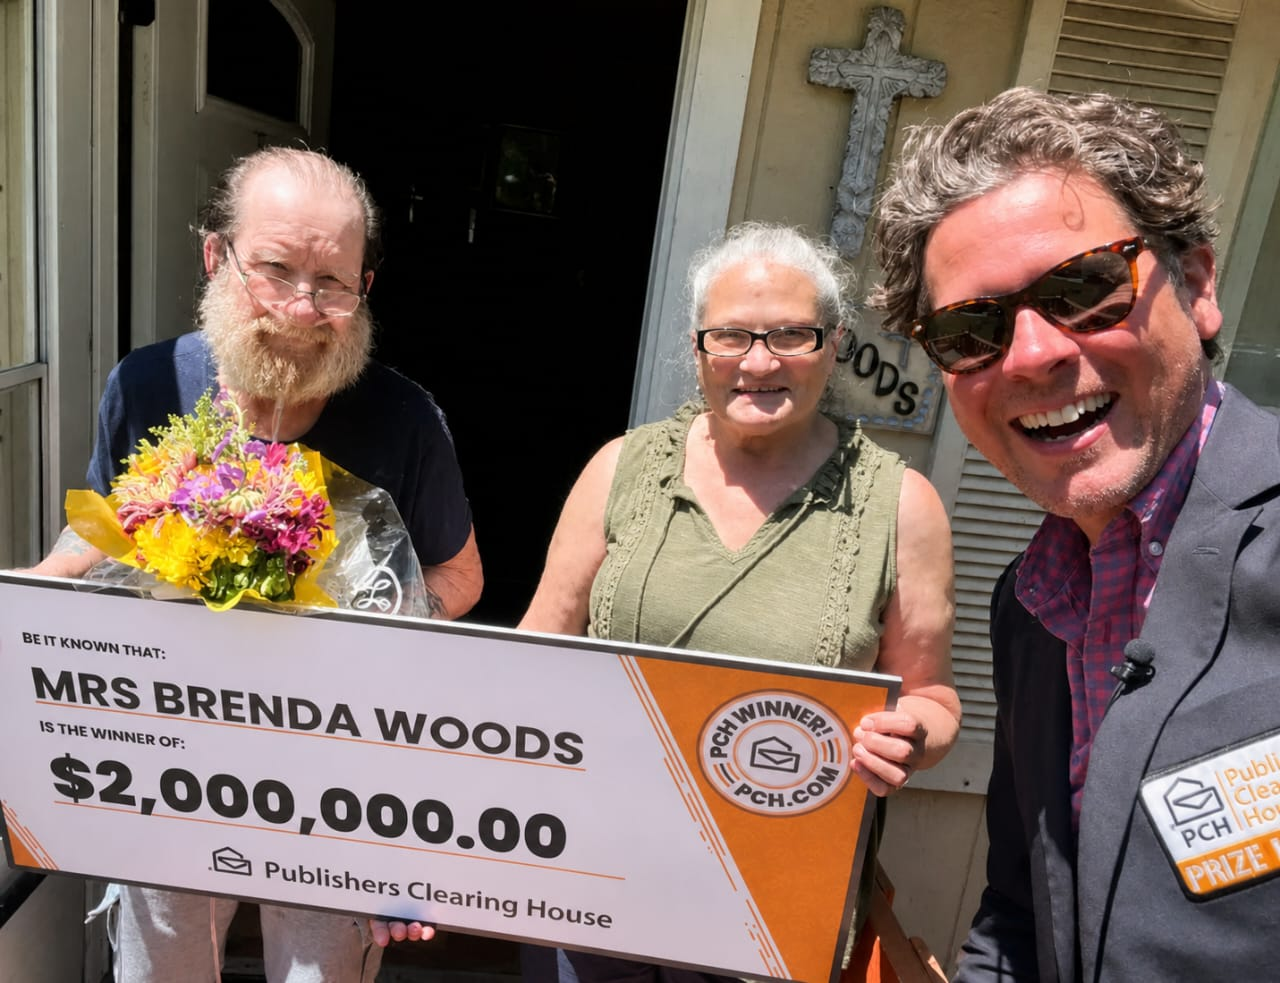
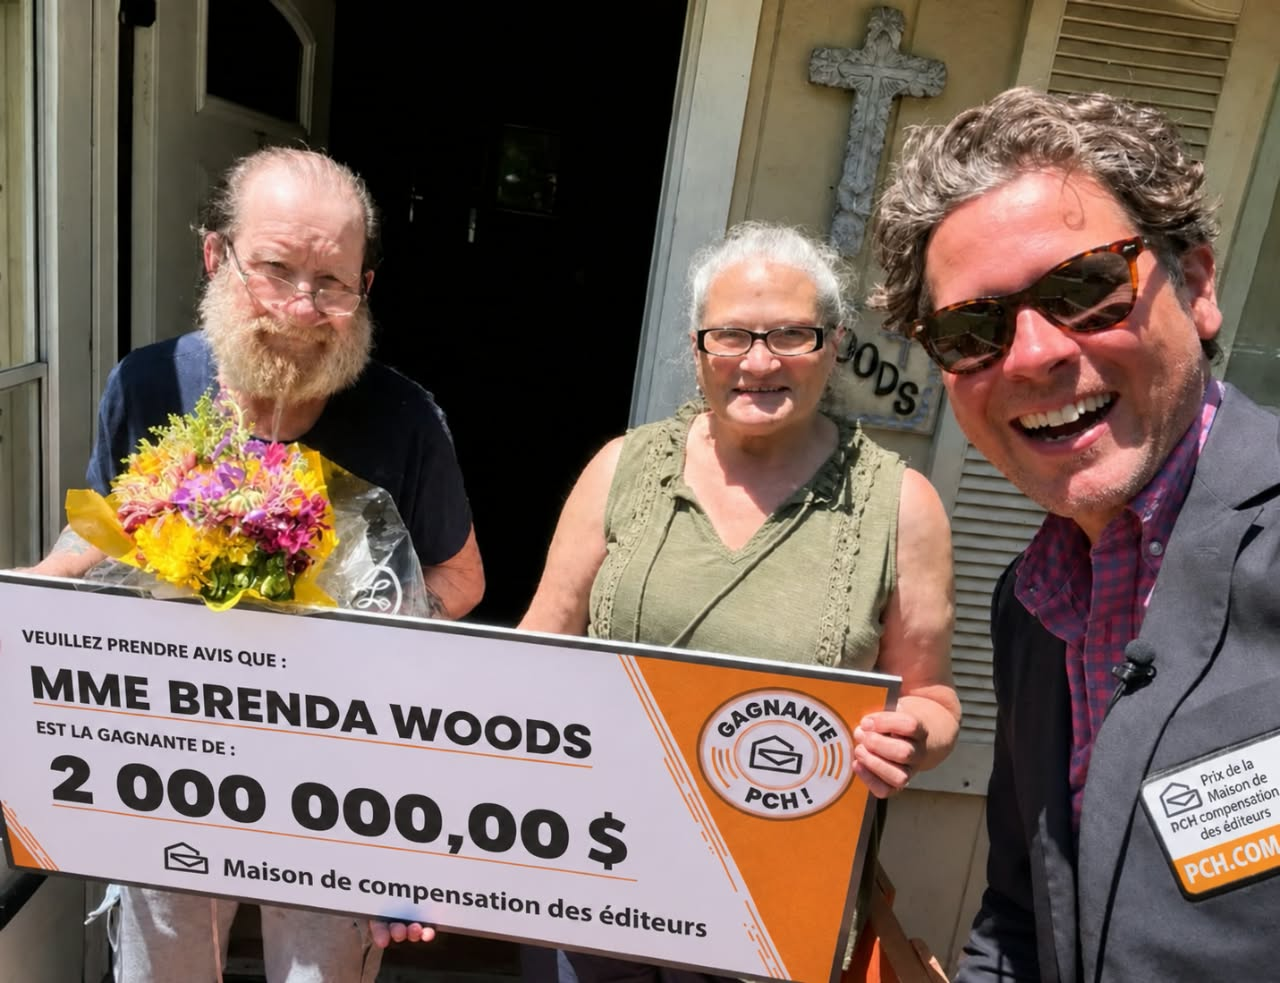
Push change

diff --git a/winners.html b/winners.html
@@ -101,15 +101,14 @@
 
      <!-- Winner Photos with Individual Comment Sections -->
     <div class="image-container">
-      <h3 data-translate="Winners-title">Nos derniers gagnants - septembre 2026</h3>
+      <h3 data-translate="Winners-title">Nos derniers gagnants - octobre 2026</h3>
       <div class="image-slider" id="slider-akeya">
         <button class="slider-btn prev-btn" onclick="changeSlide(-1, 'slider-akeya')">&#10094;</button>
-        <img src="eulalia.jpg" alt="Eulalia Williams portrait" class="slide active" loading="lazy">
-        <img src="eulalia1.jpg" alt="Eulalia Williams portrait" class="slide" loading="lazy">
-        <img src="eulalia2.jpg" alt="Eulalia Williams portrait" class="slide" loading="lazy">
+        <img src="brenda.jpg" alt="Brenda Woods portrait" class="slide active" loading="lazy">
+        <img src="brenda1.jpg" alt="Brenda Woods portrait" class="slide" loading="lazy">
         <button class="slider-btn next-btn" onclick="changeSlide(1, 'slider-akeya')">&#10095;</button>
       </div>
-      <figcaption style="text-align:center; font-size:0.9rem; color:#666; margin-top:6px;">Mme Eulalia Williams</figcaption>
+      <figcaption style="text-align:center; font-size:0.9rem; color:#666; margin-top:6px;">Mme Brenda Woods</figcaption>
       
       <!-- Testimonial Section -->
       <div style="background: #f8f9fa; border-left: 4px solid #28a745; padding: 15px; margin: 15px 0; border-radius: 8px; font-style: italic;">
@@ -123,16 +122,16 @@
       
       <div class="comment-section">
         <div class="comments-header">
-          💬 Commentaires <span class="comment-count" id="count-eulalia" data-count="3454">3 454</span>
+          💬 Commentaires <span class="comment-count" id="count-brenda" data-count="13454">13,454</span>
         </div>
         
         <div class="comment-form">
-          <input type="text" id="name-eulalia" placeholder="Votre nom" required>
-          <textarea id="comment-eulalia" placeholder="Partagez vos impressions sur Mme Eulalia Williams..." required></textarea>
-          <button class="comment-btn" onclick="addComment('eulalia')">Ajouter un commentaire</button>
+          <input type="text" id="name-brenda" placeholder="Votre nom" required>
+          <textarea id="comment-brenda" placeholder="Partagez vos impressions sur Mme Brenda Woods..." required></textarea>
+          <button class="comment-btn" onclick="addComment('brenda')">Ajouter un commentaire</button>
         </div>
         
-        <div class="comments-list" id="comments-eulalia"></div>
+        <div class="comments-list" id="comments-brenda"></div>
       </div>
     </div>
 
@@ -140,16 +139,16 @@
     <div class="image-container">
       <div class="image-slider" id="slider-kelly">
         <button class="slider-btn prev-btn" onclick="changeSlide(-1, 'slider-kelly')">&#10094;</button>
-        <img src="1Mprize.jpg" alt="Susan Headley portrait" class="slide active" loading="lazy">
-        <img src="1Mprize.jpg" alt="Susan Headley portrait" class="slide" loading="lazy">
+        <img src="looms.jpg" alt="Matthew Loomis portrait" class="slide active" loading="lazy">
+        <img src="looms1.jpg" alt="Matthew Loomis portrait" class="slide" loading="lazy">
         <button class="slider-btn next-btn" onclick="changeSlide(1, 'slider-kelly')">&#10095;</button>
       </div>
-      <figcaption style="text-align:center; font-size:0.9rem; color:#666; margin-top:6px;"> </figcaption>
+      <figcaption style="text-align:center; font-size:0.9rem; color:#666; margin-top:6px;">Mr Matthew Loomis</figcaption>
 
       <!-- Testimonial Section -->
       <div style="background: #f8f9fa; border-left: 4px solid #28a745; padding: 15px; margin: 15px 0; border-radius: 8px; font-style: italic;">
         <div style="color: #155724; font-size: 0.95em; line-height: 1.5;">
-          
+          Au début, je n’y croyais pas vraiment, mais après avoir envoyé ma demande, j’ai reçu un courriel de confirmation dès le lendemain! J’ai reçu mon paiement exactement comme promis. Merci beaucoup, ça a vraiment fait ma semaine! 
         </div>
         <div style="text-align: right; margin-top: 8px; font-size: 0.85em; color: #6c757d; font-weight: 600;">
           - Témoignage d'un gagnant vérifié
@@ -158,12 +157,47 @@
       
       <div class="comment-section">
         <div class="comments-header">
-          💬 Commentaires <span class="comment-count" id="count-susan" data-count="0">0</span>
+          💬 Commentaires <span class="comment-count" id="count-matthew" data-count="13327">13,327</span>
+        </div>
+        
+        <div class="comment-form">
+          <input type="text" id="name-matthew" placeholder="Votre nom" required>
+          <textarea id="comment-matthew" placeholder="Partagez vos impressions sur Mr Matthew Loomis..." required></textarea>
+          <button class="comment-btn" onclick="addComment('matthew')">Ajouter un commentaire</button>
+        </div>
+        
+        <div class="comments-list" id="comments-matthew"></div>
+      </div>
+    </div>
+
+     <!-- Winner Photos with Individual Comment Sections -->
+    <div class="image-container">
+      <div class="image-slider" id="slider-roy">
+        <button class="slider-btn prev-btn" onclick="changeSlide(-1, 'slider-roy')">&#10094;</button>
+        <img src="susan.jpg" alt="Susan Headley portrait" class="slide active" loading="lazy">
+        <img src="susan1.jpg" alt="Susan Headley portrait" class="slide" loading="lazy">
+        <button class="slider-btn next-btn" onclick="changeSlide(1, 'slider-roy')">&#10095;</button>
+      </div>
+      <figcaption style="text-align:center; font-size:0.9rem; color:#666; margin-top:6px;">Mme Susan Headley</figcaption>
+      
+      <!-- Testimonial Section -->
+      <div style="background: #f8f9fa; border-left: 4px solid #28a745; padding: 15px; margin: 15px 0; border-radius: 8px; font-style: italic;">
+        <div style="color: #155724; font-size: 0.95em; line-height: 1.5;">
+          J’ai vu mon nom sur la liste des gagnants et je pensais que c’était une blague jusqu’à ce que mon code de demande soit vérifié. Tout s’est déroulé parfaitement. Vous êtes vraiment fiables! Merci beaucoup, PCH!
+        </div>
+        <div style="text-align: right; margin-top: 8px; font-size: 0.85em; color: #6c757d; font-weight: 600;">
+          - Verified Winner Testimonial
+        </div>
+      </div>
+      
+      <div class="comment-section">
+        <div class="comments-header">
+          💬 Commentaires <span class="comment-count" id="count-susan" data-count="12368">12,368</span>
         </div>
         
         <div class="comment-form">
           <input type="text" id="name-susan" placeholder="Votre nom" required>
-          <textarea id="comment-susan" placeholder="Partagez vos impressions..." required></textarea>
+          <textarea id="comment-susan" placeholder="Partagez vos impressions sur Mme Susan Headley..." required></textarea>
           <button class="comment-btn" onclick="addComment('susan')">Ajouter un commentaire</button>
         </div>
         
@@ -173,55 +207,18 @@
 
      <!-- Winner Photos with Individual Comment Sections -->
     <div class="image-container">
-      <div class="image-slider" id="slider-roy">
-        <button class="slider-btn prev-btn" onclick="changeSlide(-1, 'slider-roy')">&#10094;</button>
-        <img src="1Mprize.jpg" alt="Ingrid Ucles portrait" class="slide active" loading="lazy">
-        <img src="1Mprize.jpg" alt="Ingrid Ucles portrait" class="slide" loading="lazy">
-        <img src="1Mprize.jpg" alt="Ingrid Ucles portrait" class="slide" loading="lazy">
-        <button class="slider-btn next-btn" onclick="changeSlide(1, 'slider-roy')">&#10095;</button>
-      </div>
-      <figcaption style="text-align:center; font-size:0.9rem; color:#666; margin-top:6px;"> </figcaption>
-      
-      <!-- Testimonial Section -->
-      <div style="background: #f8f9fa; border-left: 4px solid #28a745; padding: 15px; margin: 15px 0; border-radius: 8px; font-style: italic;">
-        <div style="color: #155724; font-size: 0.95em; line-height: 1.5;">
-          
-        </div>
-        <div style="text-align: right; margin-top: 8px; font-size: 0.85em; color: #6c757d; font-weight: 600;">
-          - Verified Winner Testimonial
-        </div>
-      </div>
-      
-      <div class="comment-section">
-        <div class="comments-header">
-          💬 Commentaires <span class="comment-count" id="count-ingrid" data-count="0">0</span>
-        </div>
-        
-        <div class="comment-form">
-          <input type="text" id="name-ingrid" placeholder="Votre nom" required>
-          <textarea id="comment-ingrid" placeholder="Partagez vos impressions..." required></textarea>
-          <button class="comment-btn" onclick="addComment('ingrid')">Ajouter un commentaire</button>
-        </div>
-        
-        <div class="comments-list" id="comments-ingrid"></div>
-      </div>
-    </div>
-
-     <!-- Winner Photos with Individual Comment Sections -->
-    <div class="image-container">
       <div class="image-slider" id="slider-leroy">
         <button class="slider-btn prev-btn" onclick="changeSlide(-1, 'slider-leroy')">&#10094;</button>
-        <img src="1Mprize.jpg" alt="Brenda Woods portrait" class="slide active" loading="lazy">
-        <img src="1Mprize.jpg" alt="Brenda Woods portrait" class="slide" loading="lazy">
-        <img src="1Mprize.jpg" alt="Brenda Woods portrait" class="slide" loading="lazy">
+        <img src="barbara.jpg" alt="Barbara Mills portrait" class="slide active" loading="lazy">
+        <img src="barbara1.jpg" alt="Barbara Mills portrait" class="slide" loading="lazy">
         <button class="slider-btn next-btn" onclick="changeSlide(1, 'slider-leroy')">&#10095;</button>
       </div>
-      <figcaption style="text-align:center; font-size:0.9rem; color:#666; margin-top:6px;"> </figcaption>
+      <figcaption style="text-align:center; font-size:0.9rem; color:#666; margin-top:6px;">Mme Barbara Mills</figcaption>
       
       <!-- Testimonial Section -->
       <div style="background: #f8f9fa; border-left: 4px solid #28a745; padding: 15px; margin: 15px 0; border-radius: 8px; font-style: italic;">
         <div style="color: #155724; font-size: 0.95em; line-height: 1.5;">
-          
+          J’arrive pas à croire que j’ai vraiment gagné! Le processus était super simple, juste un formulaire à remplir, et j’ai reçu ma récompense en moins de 48 heures. Merci d’avoir tenu parole! 
         </div>
         <div style="text-align: right; margin-top: 8px; font-size: 0.85em; color: #6c757d; font-weight: 600;">
           - Verified Winner Testimonial
@@ -230,16 +227,16 @@
       
       <div class="comment-section">
         <div class="comments-header">
-          💬 Commentaires <span class="comment-count" id="count-brenda" data-count="0">0</span>
+          💬 Commentaires <span class="comment-count" id="count-barbara" data-count="10922">10,922</span>
         </div>
         
         <div class="comment-form">
-          <input type="text" id="name-brenda" placeholder="Votre nom" required>
-          <textarea id="comment-brenda" placeholder="Partagez vos impressions..." required></textarea>
-          <button class="comment-btn" onclick="addComment('brenda')">Ajouter un commentaire</button>
+          <input type="text" id="name-barbara" placeholder="Votre nom" required>
+          <textarea id="comment-barbara" placeholder="Partagez vos impressions sur Mme Barbara Mills..." required></textarea>
+          <button class="comment-btn" onclick="addComment('barbara')">Ajouter un commentaire</button>
         </div>
         
-        <div class="comments-list" id="comments-brenda"></div>
+        <div class="comments-list" id="comments-barbara"></div>
       </div>
     </div>
 
